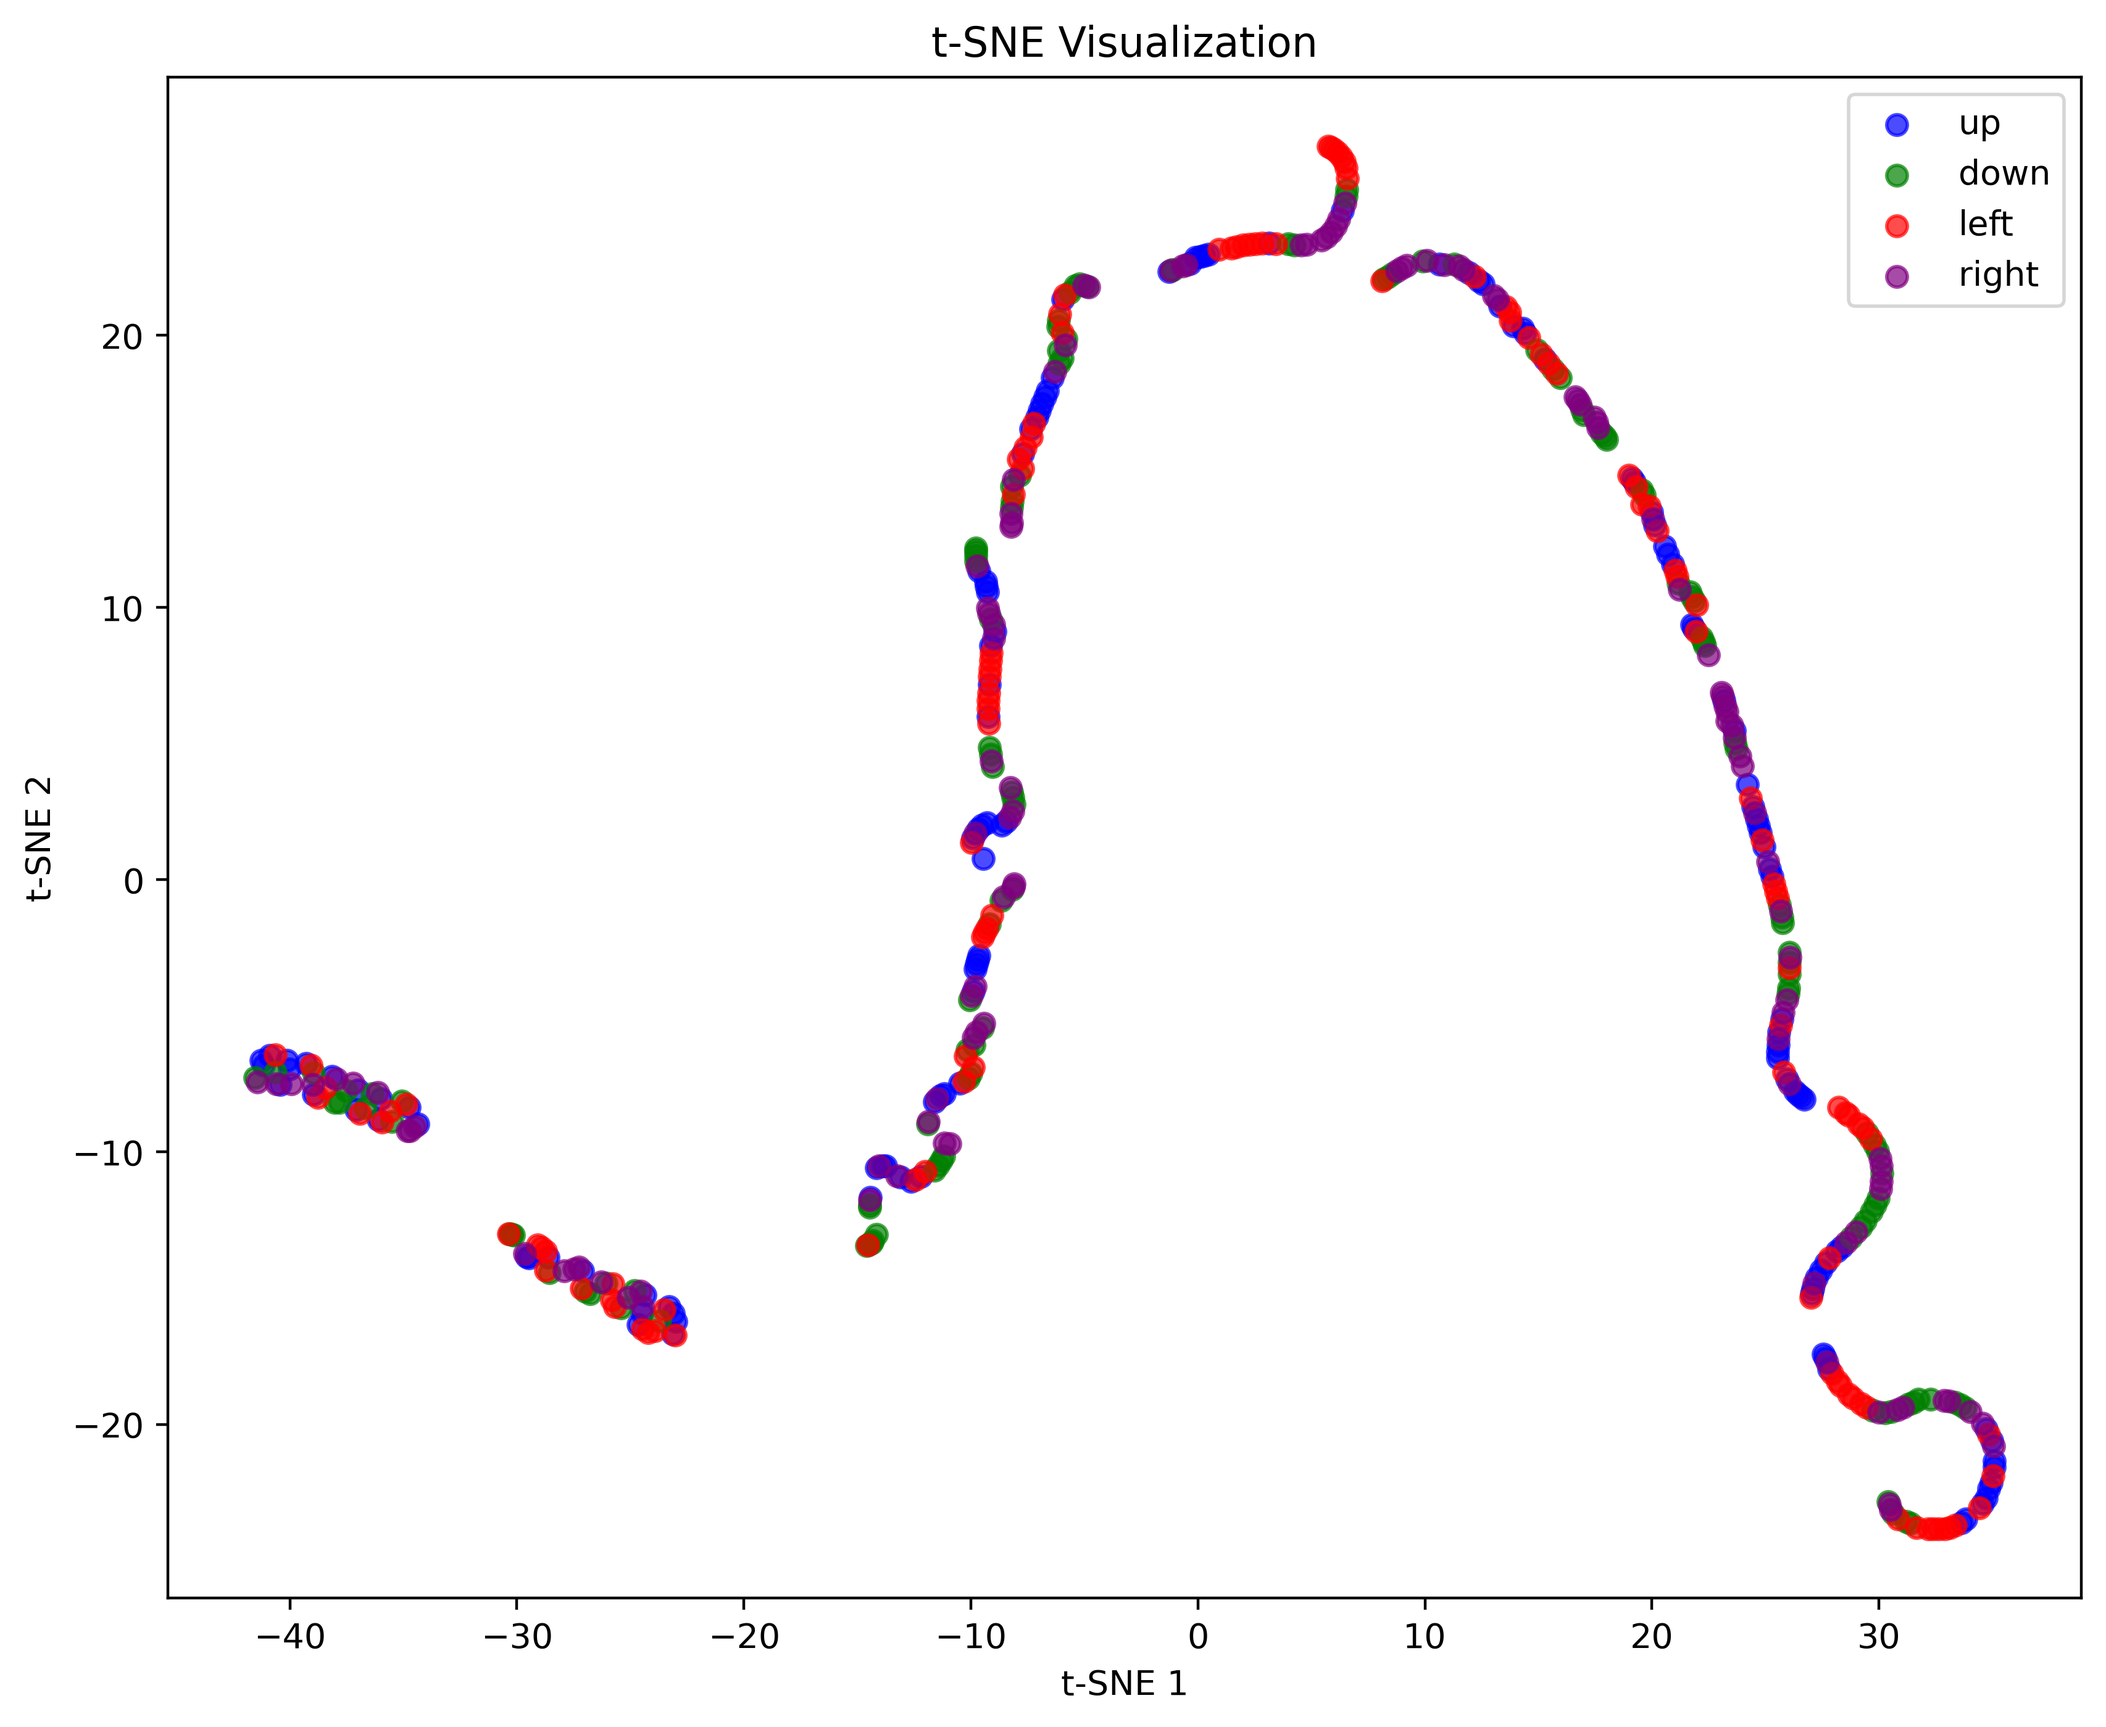
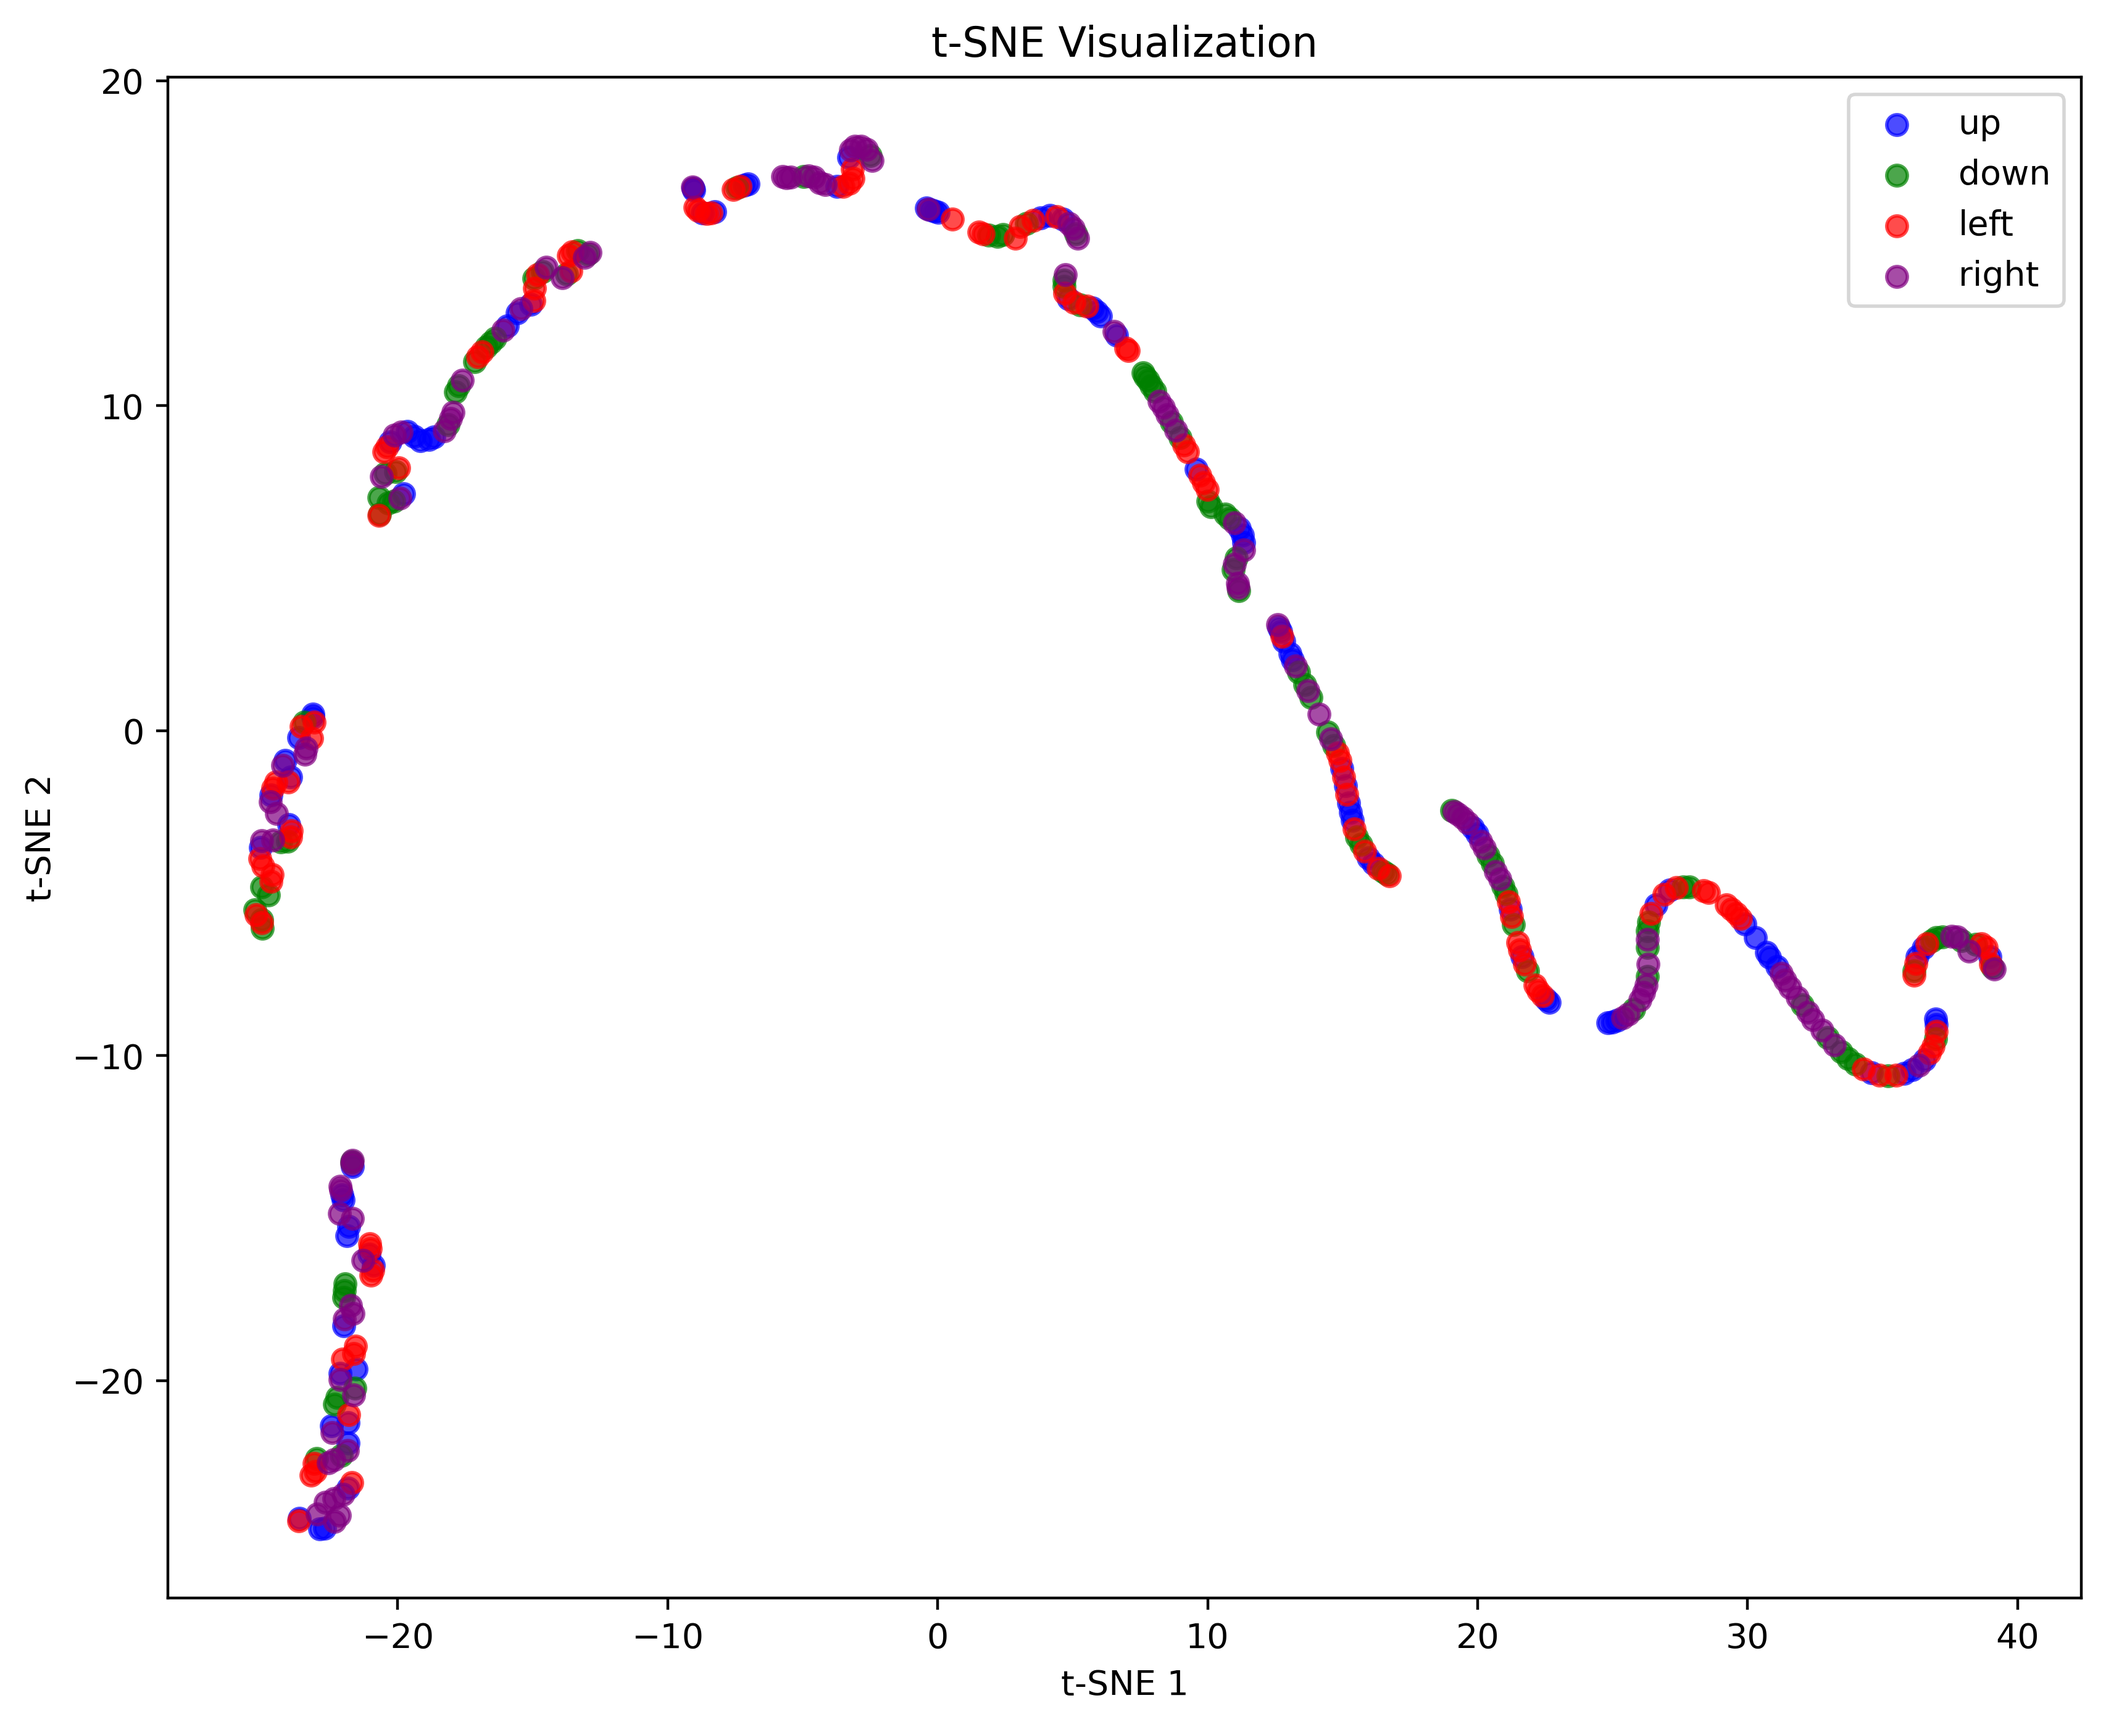
Accuracy up to 85%

diff --git a/Data/data.py b/Data/data.py
@@ -1,7 +1,7 @@
 import os
 import json
 import numpy as np
-from scipy.spatial.distance import pdist, squareform
+from scipy.spatial.distance import pdist, squareform, cdist
 from sklearn.manifold import MDS
 from sklearn.model_selection import train_test_split
 from sklearn.discriminant_analysis import LinearDiscriminantAnalysis 
@@ -38,122 +38,6 @@ class Data:
     lda = LinearDiscriminantAnalysis(n_components=n)
     lda_out = lda.fit_transform(X_scaled, y)
     return lda_out
-    
-  def plot_lda(self, path = None, show = False):
-    y = self.encoded_moves
-
-    # Split into train and test for more realistic scenario (optional)
-    # X_train, X_test, y_train, y_test = train_test_split(X, y, test_size=0.3, random_state=42)
-    X_r2 = self.lda_2
-    
-    # Plot the results
-    plt.figure(figsize=(15, 15))
-
-    target_names = ['up', 'down', 'left', 'right']
-    labels = [0, 1, 2, 3]
-    colors = ['blue', 'green', 'red', 'purple']
-    for color, label in zip(colors, labels):
-        idx = y == label
-        plt.scatter(X_r2[idx, 0], X_r2[idx, 1], color=color, label=target_names[label], alpha=0.7)
-
-    plt.title("LDA Representation of Battlesnake Moves")
-    plt.xlabel("LDA Component 1")
-    plt.ylabel("LDA Component 2")
-    plt.legend(loc="best")
-    
-    if (show):
-      plt.show()
-     
-    if(path !=  None): 
-      plt.savefig(path, format='png', bbox_inches='tight', dpi=400) # PNG
-    plt.clf()
-    
-    score = silhouette_score(X_r2, y)
-    print(f'Silhouette Score after LDA: {score}')
-    
-    db_index = davies_bouldin_score(X_r2, y)
-    print(f'Davies-Bouldin Index after LDA: {db_index}')
-      
-  def plot_lda_3d(self, path=None, show=False):
-    y = self.encoded_moves
-
-    # Initialize LDA with 3 components for 3D plotting
-    X_r3 = self.lda_3
-    
-    # Create a 3D plot
-    fig = plt.figure(figsize=(15, 15))
-    ax = fig.add_subplot(111, projection='3d')
-
-    target_names = ['up', 'down', 'left', 'right']
-    labels = [0, 1, 2, 3]
-    colors = ['blue', 'green', 'red', 'purple']
-    for color, label in zip(colors, labels):
-        idx = y == label
-        ax.scatter(X_r3[idx, 0], X_r3[idx, 1], X_r3[idx, 2], color=color, label=target_names[label], alpha=0.7)
-
-    # Set labels and title
-    ax.set_title("3D LDA Representation of Battlesnake Moves")
-    ax.set_xlabel("LDA Component 1")
-    ax.set_ylabel("LDA Component 2")
-    ax.set_zlabel("LDA Component 3")
-    ax.legend(loc="best")
-    
-    # Show or save the plot
-    if show:
-        plt.show()
-    if path is not None:
-        plt.savefig(path, format='png', bbox_inches='tight', dpi=400)
-    plt.clf()
-    
-    # Calculate and print clustering scores
-    score = silhouette_score(X_r3, y)
-    print(f'Silhouette Score after 3D LDA: {score}')
-    
-    db_index = davies_bouldin_score(X_r3, y)
-    print(f'Davies-Bouldin Index after 3D LDA: {db_index}')
-
-  def plot_mds(self, path = None, show = False):    
-    euclidean_data = self.__calculate_euclidean_distance()
-    mds = self.__multi_dim_scaling(euclidean_data)
-    
-    fig = plt.figure(figsize=(15,15))
-    # ax = fig.add_subplot(projection='3d')
-    ax = fig.add_subplot()
-    
-    plt.title('MDS Representation of Battlesnake Moves')
-
-    unique_classes = list(set(label['Move'] for label in self.moves))
-    colors = plt.cm.get_cmap('tab10', len(unique_classes))  # Using a colormap with enough distinct colors
-    class_colors = {cls: colors(i) for i, cls in enumerate(unique_classes)}
-
-    for i, label in enumerate(self.moves):
-        cls = label['Move']
-        
-        # Plot each point with its respective color
-        ax.scatter(mds[i, 0], mds[i, 1], color=class_colors[cls], s=10)
-        # ax.scatter(mds[i, 0], mds[i, 1], mds[i,2], color=class_colors[cls], s=10)
-        
-        # Annotate each point with its index
-        ax.annotate(str(i),
-                    (mds[i, 0], mds[i, 1]),            # Point to annotate
-                    textcoords="offset points",        # Position relative to the point
-                    xytext=(5, 5),                     # Offset of the annotation text
-                    ha='center', color='red') 
-        # ax.text(mds[i, 0], mds[i, 1], mds[i, 2], str(i),
-        #     color='red', ha='center')
-
-    for cls, color in class_colors.items():
-      ax.scatter([], [], color=color, label=cls)
-
-    # Add legend and show the plot
-    ax.legend(title="Classes")
-
-    if (show):
-      plt.show()
-     
-    if(path !=  None): 
-      plt.savefig(path, format='png', bbox_inches='tight', dpi=400) # PNG
-    plt.clf()
   
   def __read_frames(self):
     frames = []
@@ -174,6 +58,7 @@ class Data:
     for game_state in self.frames:
         turn = game_state["Turn"]
         food = game_state["Food"]
+        food = [(f["X"], f["Y"]) for f in food]
         snakes = game_state["Snakes"]
 
         # Initialize lists for player and enemy snakes
@@ -193,13 +78,30 @@ class Data:
         if player_body is None:
             continue  # Skip if the player's snake is not found
 
+        # Calculate the distance between the player's snake head and the enemy's snake head
+        player_head = player_body[0]
+        enemy_head = enemy_body[0]
+
+        opp_distance = self.calculate_snake_distance(player_head, enemy_body)
+        player_distance = self.calculate_snake_distance(enemy_head, player_body)
+        pairwise_distance = self.calculate_pairwise_distance(enemy_body, player_body)
+        wall_distance = self.calculate_wall_distance(player_body)
+        food_distance = self.calculate_food_distance(player_body, food)
+        valid_spaces = self.calculate_valid_moves(player_body, enemy_body)
+
         # Flatten features into a vector (simple representation)
         features = {
             "turn": turn,
-            "food_positions": [(f["X"], f["Y"]) for f in food],
+            "food_positions": food,
             "player_body": player_body,
             "enemy_body": enemy_body,
             "health": player_health,
+            "opp_distance": opp_distance,
+            "player_distance": player_distance,
+            "pairwise_distance": pairwise_distance,
+            "food_distance": food_distance,
+            "wall_distance": wall_distance,
+            "valid_spaces": valid_spaces
         }
         preprocessed.append(features)
 
@@ -256,20 +158,27 @@ class Data:
   def __flatten_frames(self):
     flattened_frames = []
     for i, frame in enumerate(self.preprocessed):
-      flattened_frames.append(self.__flatten_frame_len_to_board(frame, i+1))
+      flattened_frames.append(self.__flatten_frame_i_to_list(frame, i+1))
       
     return np.array(flattened_frames)
   
   def __flatten_frame_i_to_list(self, frame, i):
 
     # add length to arrays
-    return np.append(self.__flatten_frame_to_list(frame, i), [len(frame["player_body"]), len(frame["enemy_body"]), len(frame["food_positions"]), i, frame["health"]], axis=0)
+    return np.append(self.__flatten_frame_to_list(frame), [len(frame["player_body"]), len(frame["enemy_body"]), len(frame["food_positions"]), frame["health"], i], axis=0)
     # return np.concatenate([food_positions_padded, player_body_padded, enemy_bodies_padded])
   
-  def __flatten_frame_to_list(self, frame, i):
+  def __flatten_frame_to_list(self, frame):
     food_positions = [coord for f in frame["food_positions"] for coord in f]
     player_body = [coord for s in frame["player_body"] for coord in s]
     enemy_bodies = [coord for b in frame["enemy_body"] for coord in b]
+    wall_distance = [dist for b in frame["wall_distance"] for dist in b]
+    food_distance = [dist for b in frame["food_distance"] for dist in b]
+    opp_distance = frame["opp_distance"]
+    player_distance = frame["player_distance"]
+    pairwise_distance = frame["pairwise_distance"]
+    valid_spaces = frame["valid_spaces"]
+
      # Define the desired length for padding
     desired_length = 100
 
@@ -283,8 +192,14 @@ class Data:
     player_body_padded = pad_to_length(player_body, desired_length)
     enemy_bodies_padded = pad_to_length(enemy_bodies, desired_length)
 
+    opp_distance_padded = pad_to_length(opp_distance, desired_length)
+    player_distance_padded = pad_to_length(player_distance, desired_length)
+    pairwise_distance_padded = pad_to_length(pairwise_distance, 2000)
+    wall_distance_padded = pad_to_length(wall_distance, 400)
+    food_distance_padded = pad_to_length(food_distance, 400)
+
     # Concatenate all arrays
-    return np.concatenate([food_positions_padded, player_body_padded, enemy_bodies_padded])
+    return np.concatenate([food_positions_padded, player_body_padded, enemy_bodies_padded, player_distance_padded, opp_distance_padded, pairwise_distance_padded, wall_distance_padded, food_distance_padded, valid_spaces])
   
   def __flatten_frame_to_board(self, frame, i):
     # Convert the board into a flattened array
@@ -355,3 +270,55 @@ class Data:
   def multi_dim_scaling(self, data, dim = 2):
     mds = MDS(n_components=dim, random_state=0, dissimilarity='precomputed')  
     return mds.fit_transform(data)
+  
+  def calculate_snake_distance(self, head, body):
+    return np.array([np.sum(np.abs(np.array(head) - np.array(segment))) for segment in body])
+
+  def calculate_pairwise_distance(self, body1, body2):
+    return cdist(body1, body2, 'cityblock').ravel()
+  
+  def calculate_wall_distance(self, body, board_size=11):
+    # Distance from upper
+      # 11 - y
+    # Distance from lower
+      # y
+    # Distance from left
+      # x
+    # Distance from right
+      # 11 - x
+
+    distances = []
+
+    for segment in body:
+        x, y = segment
+        distance_to_top = board_size - y
+        distance_to_right = board_size - x
+        distances.append([distance_to_top, distance_to_right])
+
+    return np.array(distances)
+  
+  def calculate_food_distance(self, body, foods):
+    return np.array([[np.sum(np.abs(np.array(segment) - np.array(food))) for food in foods] for segment in body])
+  
+  def calculate_valid_moves(self, player, opp, board_size=11):
+      mask = [1, 1, 1, 1]  # Initialize mask for [up, down, left, right]
+
+      head_x, head_y = player[0]  # Get the head position of the player's snake
+
+      # Check up move
+      if head_y + 1 >= board_size or (head_x, head_y + 1) in player or (head_x, head_y + 1) in opp:
+          mask[0] = 0
+
+      # Check down move
+      if head_y - 1 < 0 or (head_x, head_y - 1) in player or (head_x, head_y - 1) in opp:
+          mask[1] = 0
+
+      # Check left move
+      if head_x - 1 < 0 or (head_x - 1, head_y) in player or (head_x - 1, head_y) in opp:
+          mask[2] = 0
+
+      # Check right move
+      if head_x + 1 >= board_size or (head_x + 1, head_y) in player or (head_x + 1, head_y) in opp:
+          mask[3] = 0
+
+      return mask

diff --git a/visualization.py b/visualization.py
@@ -8,25 +8,33 @@ data_class = Data(data_root='./JSON')
 visualizer = Visualize(data_class)
 
 # print(data_class.frames[0])
-# print(data_class.preprocessed[0])
+print(data_class.preprocessed[9])
 # print(data_class.moves[0])
 # print(data_class.encoded_moves[0])
-print(data_class.flattened_frames[0])
+# print(data_class.flattened_frames[0])
+
+# print(data_class.preprocessed[50]['opp_distance']) # Distance of player head to opponent body
+
+# print()
+# print()
+# print()
+
+# print(data_class.preprocessed[50]['player_distance']) # Distance of opponent head to player body
 
 # Use the Visualize class for plotting
 # visualizer.plot_lda('./vis_out/LDA/LDA_2D.png', False)
 # visualizer.plot_lda_3d('./vis_out/LDA/LDA_3D.png', False)
 # visualizer.plot_mds('./vis_out/MDS/MDS_3D.png', False)
 
-visualizer.plot_tsne(path='./vis_out/TSNE/TSNE_2D.png', show=False)
+# visualizer.plot_tsne(path='./vis_out/TSNE/TSNE_2D.png', show=False)
 
 # Uncomment to show plots
 # visualizer.plot_lda(None, True)
 # data_class.plot_lda('./vis_out/LDA/LDA_scaled_5_health.png', False)
-# data_class.plot_lda(None, True)
+visualizer.plot_lda(None, False)
 
 # data_class.plot_lda_3d('./vis_out/LDA/LDA_scaled_3d_3_health.png', False)
-data_class.plot_lda_3d(None, True)
+visualizer.plot_lda_3d(None, False)
 
 # data_class.plot_mds(None, True)
 # data_class.plot_mds('./vis_out/MDS_3d.png', False)
